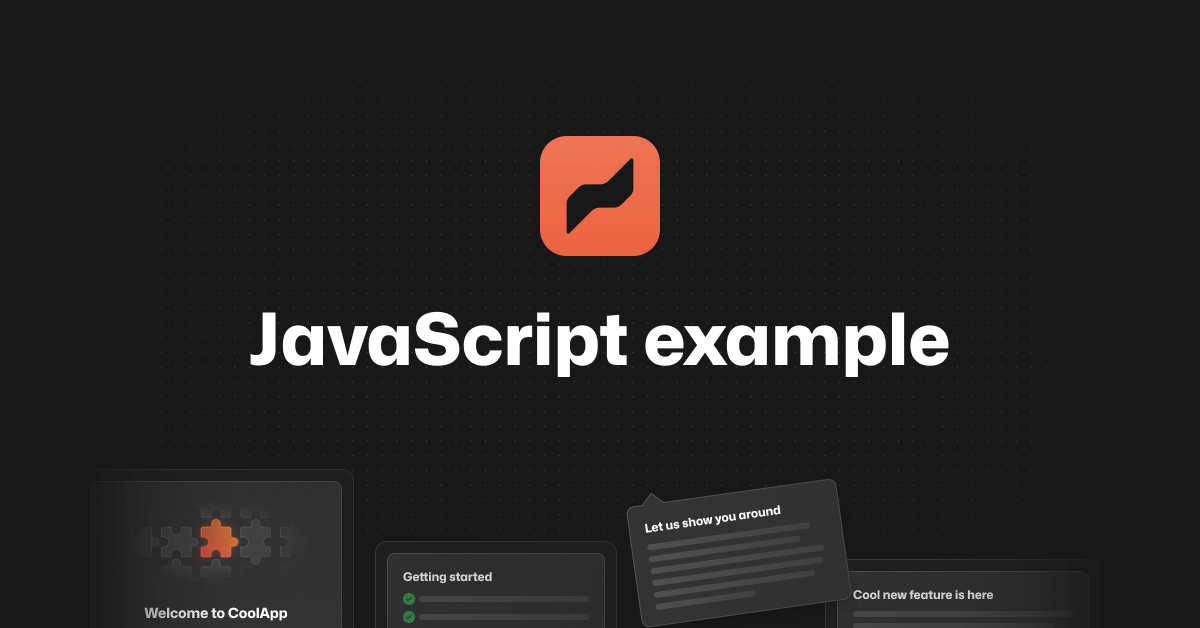
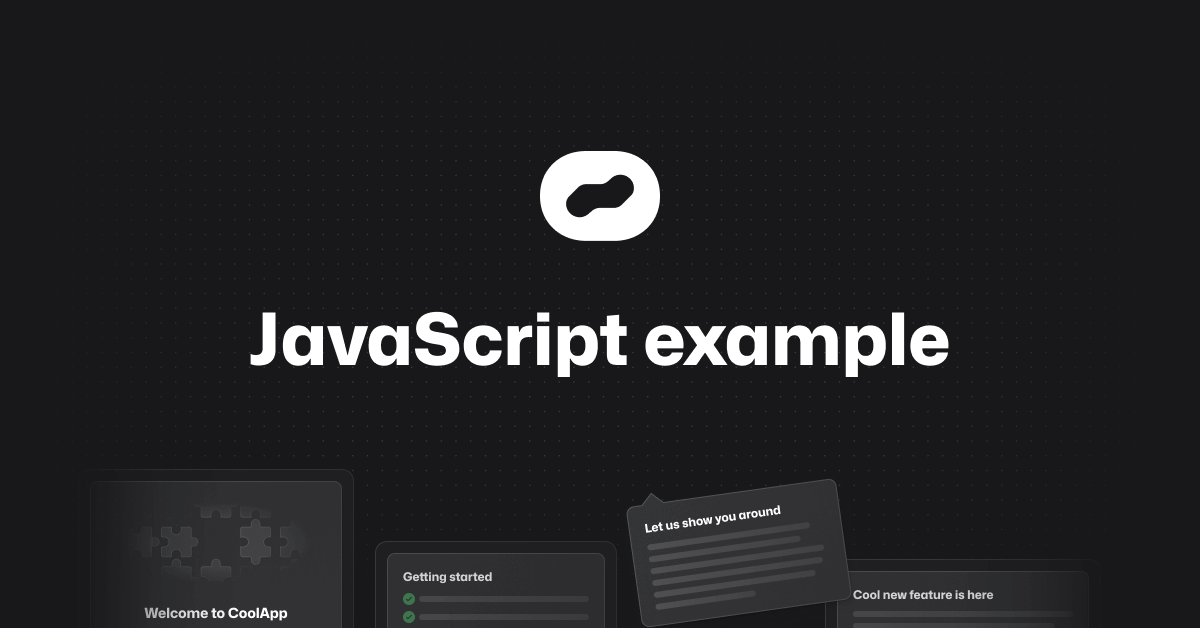
feat: update brand

Changed region(s): [[0.4317, 0.2118, 0.555, 0.4236], [0.1542, 0.8169, 0.2158, 0.9076]]

diff --git a/examples/javascript/index.html b/examples/javascript/index.html
@@ -41,120 +41,6 @@
     <script type="module">
       flows.init({
         projectId: "e7d8eb63-7670-4da1-b0e0-d2d3331d108b",
-        flows: [
-          {
-            id: "local-flow",
-            start: { clickElement: "#start-local" },
-            frequency: "every-time",
-            steps: [
-              {
-                title: "Welcome to Flows!",
-                body: "This is a demo of a local flow loaded from the codebase. Flows offer cloud flows as well, which can be updated without needing code changes.",
-              },
-              {
-                title: "This is a tooltip",
-                body: "It can have an overlay...",
-                targetElement: "#file1",
-                overlay: true,
-              },
-              {
-                title: "...or not",
-                body: "You can customize the tooltip to your liking.",
-                targetElement: "#file1",
-              },
-              {
-                title: "You can also wait for a click",
-                body: "Just like this! Click the button to continue.",
-                targetElement: "#upload",
-                overlay: true,
-                wait: {
-                  clickElement: "#upload",
-                },
-                hideNext: true,
-              },
-              {
-                title: "Or you can branch out with forks",
-                body: "Click on one of the files to continue.",
-                targetElement: ".app-files",
-                overlay: true,
-                wait: [
-                  {
-                    clickElement: "#file1",
-                    targetBranch: 0,
-                  },
-                  {
-                    clickElement: "#file2",
-                    targetBranch: 1,
-                  },
-                  {
-                    clickElement: "#file3",
-                    targetBranch: 2,
-                  },
-                  {
-                    clickElement: "#file4",
-                    targetBranch: 3,
-                  },
-                ],
-                hideNext: true,
-              },
-              [
-                [
-                  {
-                    title: "You clicked on FunnyCat.jpg",
-                    body: "With forks, you can create multiple branches to tailor the onboarding to user actions.",
-                    targetElement: "#file1",
-                    overlay: true,
-                  },
-                ],
-                [
-                  {
-                    title: "You clicked on ImportantDoc.pdf",
-                    body: "With forks, you can create multiple branches to tailor the onboarding to user actions.",
-                    targetElement: "#file2",
-                    overlay: true,
-                  },
-                ],
-                [
-                  {
-                    title: "You clicked on CoolVideo.mp4",
-                    body: "With forks, you can create multiple branches to tailor the onboarding to user actions.",
-                    targetElement: "#file3",
-                    overlay: true,
-                  },
-                ],
-                [
-                  {
-                    title: "You clicked on DankMeme.png",
-                    body: "With forks, you can create multiple branches to tailor the onboarding to user actions.",
-                    targetElement: "#file4",
-                    overlay: true,
-                  },
-                ],
-              ],
-              {
-                title: "That was the basics of Flows!",
-                body: "You can create complex onboarding flows with Flows or a simple tour. If you liked what you saw, sign up and start creating your own flows.",
-                hideNext: true,
-                hidePrev: true,
-                footerActions: {
-                  center: [
-                    {
-                      label: "Learn more",
-                      external: true,
-                      href: "https://flows.sh/docs",
-                      variant: "secondary",
-                    },
-                    {
-                      label: "Sign up",
-                      external: true,
-                      href: "https://app.flows.sh/signup",
-                    },
-                  ],
-                },
-              },
-            ],
-          },
-        ],
       });
     </script>
   </head>
@@ -181,14 +67,13 @@
             target="_blank"
             class="logo"
           >
-            <img src="/logo.svg" alt="FlowsJS" height="36" />
+            <img src="/logo.svg" alt="FlowsJS" height="28" />
           </a>
         </div>
       </div>
       <div class="main-wrapper">
         <div class="flows-launch-wrapper">
-          <button id="start-cloud">Launch Cloud flow</button>
-          <button id="start-local">Launch Local flow</button>
+          <button id="start-cloud">Launch flow</button>
         </div>
         <div class="app-wrapper">
           <div class="app-header">

diff --git a/examples/react-nextjs/components/flows.tsx b/examples/react-nextjs/components/flows.tsx
@@ -7,120 +7,6 @@ export const Flows = () => {
   useEffect(() => {
     init({
       projectId: "e7d8eb63-7670-4da1-b0e0-d2d3331d108b",
-      flows: [
-        {
-          id: "local-flow",
-          start: { clickElement: "#start-local" },
-          frequency: "every-time",
-          steps: [
-            {
-              title: "Welcome to Flows!",
-              body: "This is a demo of a local flow loaded from the codebase. Flows offer cloud flows as well, which can be updated without needing code changes.",
-            },
-            {
-              title: "This is a tooltip",
-              body: "It can have an overlay...",
-              targetElement: "#file1",
-              overlay: true,
-            },
-            {
-              title: "...or not",
-              body: "You can customize the tooltip to your liking.",
-              targetElement: "#file1",
-            },
-            {
-              title: "You can also wait for a click",
-              body: "Just like this! Click the button to continue.",
-              targetElement: "#upload",
-              overlay: true,
-              wait: {
-                clickElement: "#upload",
-              },
-              hideNext: true,
-            },
-            {
-              title: "Or you can branch out with forks",
-              body: "Click on one of the files to continue.",
-              targetElement: ".app-files",
-              overlay: true,
-              wait: [
-                {
-                  clickElement: "#file1",
-                  targetBranch: 0,
-                },
-                {
-                  clickElement: "#file2",
-                  targetBranch: 1,
-                },
-                {
-                  clickElement: "#file3",
-                  targetBranch: 2,
-                },
-                {
-                  clickElement: "#file4",
-                  targetBranch: 3,
-                },
-              ],
-              hideNext: true,
-            },
-            [
-              [
-                {
-                  title: "You clicked on FunnyCat.jpg",
-                  body: "With forks, you can create multiple branches to tailor the onboarding to user actions.",
-                  targetElement: "#file1",
-                  overlay: true,
-                },
-              ],
-              [
-                {
-                  title: "You clicked on ImportantDoc.pdf",
-                  body: "With forks, you can create multiple branches to tailor the onboarding to user actions.",
-                  targetElement: "#file2",
-                  overlay: true,
-                },
-              ],
-              [
-                {
-                  title: "You clicked on CoolVideo.mp4",
-                  body: "With forks, you can create multiple branches to tailor the onboarding to user actions.",
-                  targetElement: "#file3",
-                  overlay: true,
-                },
-              ],
-              [
-                {
-                  title: "You clicked on DankMeme.png",
-                  body: "With forks, you can create multiple branches to tailor the onboarding to user actions.",
-                  targetElement: "#file4",
-                  overlay: true,
-                },
-              ],
-            ],
-            {
-              title: "That was the basics of Flows!",
-              body: "You can create complex onboarding flows with Flows or a simple tour. If you liked what you saw, sign up and start creating your own flows.",
-              hideNext: true,
-              hidePrev: true,
-              footerActions: {
-                center: [
-                  {
-                    label: "Learn more",
-                    external: true,
-                    href: "https://flows.sh/docs",
-                    variant: "secondary",
-                  },
-                  {
-                    label: "Sign up",
-                    external: true,
-                    href: "https://app.flows.sh/signup",
-                  },
-                ],
-              },
-            },
-          ],
-        },
-      ],
     });
   }, []);
 

diff --git a/examples/javascript/styles.css b/examples/javascript/styles.css
@@ -4,16 +4,16 @@
   margin: 0;
 
   --bg-default: #fff;
-  --bg-muted: #fafafa;
-  --bg-hover: #f5f5f5;
-  --bg-primary: #ec6441;
-  --bg-primary-hover: #d44121;
+  --bg-muted: #f9fafc;
+  --bg-hover: #ebeef3;
+  --bg-primary: #067efd;
+  --bg-primary-hover: #3a90ff;
 
-  --fg-default: #181818;
-  --fg-muted: #525252;
+  --fg-default: #15181c;
+  --fg-muted: #4d535d;
   --fg-on-primary: #fff;
 
-  --border-default: #e2e2e2;
+  --border-default: #dfe3e8;
 
   --shadow-l1: 0px 2px 2px rgba(0, 0, 0, 0.04), 0px 0px 1px rgba(0, 0, 0, 0.08);
   --shadow-l2: 4px 8px 10.1px -2.5px rgba(10, 10, 10, 0.08),
@@ -51,7 +51,7 @@ main {
 
   height: 100%;
 
-  background-image: radial-gradient(#e2e2e2 1px, transparent 0);
+  background-image: radial-gradient(#dfe3e8 1px, transparent 0);
   background-size: 16px 16px;
 }
 

diff --git a/examples/react-nextjs/app/globals.css b/examples/react-nextjs/app/globals.css
@@ -4,16 +4,16 @@
   margin: 0;
 
   --bg-default: #fff;
-  --bg-muted: #fafafa;
-  --bg-hover: #f5f5f5;
-  --bg-primary: #ec6441;
-  --bg-primary-hover: #d44121;
+  --bg-muted: #f9fafc;
+  --bg-hover: #ebeef3;
+  --bg-primary: #067efd;
+  --bg-primary-hover: #3a90ff;
 
-  --fg-default: #181818;
-  --fg-muted: #525252;
+  --fg-default: #15181c;
+  --fg-muted: #4d535d;
   --fg-on-primary: #fff;
 
-  --border-default: #e2e2e2;
+  --border-default: #dfe3e8;
 
   --shadow-l1: 0px 2px 2px rgba(0, 0, 0, 0.04), 0px 0px 1px rgba(0, 0, 0, 0.08);
   --shadow-l2: 4px 8px 10.1px -2.5px rgba(10, 10, 10, 0.08),
@@ -39,7 +39,7 @@ main {
 
   height: 100%;
 
-  background-image: radial-gradient(#e2e2e2 1px, transparent 0);
+  background-image: radial-gradient(#dfe3e8 1px, transparent 0);
   background-size: 16px 16px;
 }
 

diff --git a/examples/react-nextjs/app/page.tsx b/examples/react-nextjs/app/page.tsx
@@ -21,14 +21,13 @@ export default function HomePage() {
             target="_blank"
             className="logo"
           >
-            <img src="/logo.svg" alt="FlowsJS" height="36" />
+            <img src="/logo.svg" alt="FlowsJS" height="28" />
           </a>
         </div>
       </div>
       <div className="main-wrapper">
         <div className="flows-launch-wrapper">
-          <button id="start-cloud">Launch Cloud flow</button>
-          <button id="start-local">Launch Local flow</button>
+          <button id="start-cloud">Launch flow</button>
         </div>
         <div className="app-wrapper">
           <div className="app-header">
